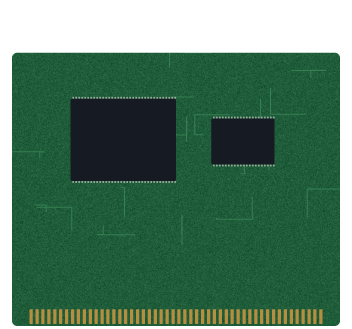
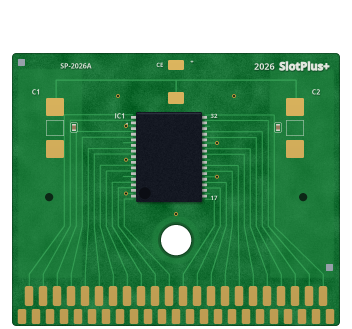
Game Gear: START opens the pak to a board drawn after the real ones
- assets/src/carts.py gg_board draws gg_board.png after real Game Gear
  boards: a tall chip with legs down both sides, a capacitor's pads each
  side joined by a frame trace, post holes, a big hole below the chip,
  bundles of traces fanning down to two staggered rows of gold contacts,
  and the 2026 SlotPlus+ mark. No makers' names or part numbers.
- board_face writes the game's name on the chip; shows_board_alone opens
  it the way the WonderSwan's and Pokémon mini's open.
- The play-time and gold stickers sit low on either side of the hole.

Claude-Session: https://claude.ai/code/session_01ECk6CDMKrY89HoAvKfhDo4

diff --git a/assets/src/carts.py b/assets/src/carts.py
@@ -666,12 +666,144 @@ def gamegear():
     interior(c, body, 33, [(w * 0.5, h * 0.2, 9), (w * 0.14, h * 0.6, 6),
                            (w * 0.86, h * 0.6, 6)]).save(os.path.join(ASSETS, "gg_interior.png"))
 
-    board_region = c.rrect(c.layer(), 12, h * 0.16, w - 12, h - 3, 5)
-    board = pcb(c, board_region, 34, [(w * 0.2, h * 0.3, w * 0.5, h * 0.55),
-                                       (w * 0.6, h * 0.36, w * 0.78, h * 0.5)])
-    board, balpha = fingers(c, w * 0.08, w * 0.92, h * 0.94, h - 5, 50, board,
-                            f(board_region))
+    gg_board(c)
+
+
+def gg_board(c=None):
+    """Only the board, after the real ones (see gg_pcb)."""
+    board, balpha = gg_pcb(c or Canvas(352, 329))
     rgba_colour(board, balpha).save(os.path.join(ASSETS, "gg_board.png"))
+
+
+# --------------------------------------------------------------------------
+# The Game Gear board, after the real ones: green, a thin trace framing the top
+# from one capacitor's pads to the other's, one tall chip with its legs down
+# both sides, a post hole each side and a big one below the chip, dense bundles
+# of traces running down round it, and two staggered rows of gold contacts.
+# No makers' names or part numbers; the slotPlus mark instead.
+
+GG_GREEN = np.array([22, 112, 52], np.float32)
+GG_TRACE = np.array([60, 170, 92], np.float32)
+GG_GOLD = [214, 176, 92]
+# Where the chip's marking goes; `slot_ui::board` writes the game's name there.
+GG_ROM = (136, 112, 202, 202)
+GG_BOARD = (12, 53, 340, 326)
+GG_HOLE = (176, 240, 15)
+
+
+def gg_pcb(c):
+    rng = np.random.default_rng(71)
+    x0, y0, x1, y1 = GG_BOARD
+    outline = c.rrect(c.layer(), x0, y0, x1, y1, 4)
+    hx, hy, hr = GG_HOLE
+    cut = c.ellipse(c.layer(), hx - hr, hy - hr, hx + hr, hy + hr)
+    region = np.clip(f(outline) - f(cut), 0, 1)
+
+    rgb = np.ones((c.H, c.W, 3), np.float32) * GG_GREEN
+    blotch = ndimage.gaussian_filter(rng.normal(0, 1, (c.H // 8 + 1, c.W // 8 + 1)), 2.4)
+    blotch = np.kron(blotch / max(blotch.std(), 1e-6), np.ones((8, 8)))[: c.H, : c.W]
+    rgb += (blotch * 5.0)[..., None].astype(np.float32)
+    rgb += grain((c.H, c.W), 72, 3.5)[..., None]
+
+    rx0, ry0, rx1, ry1 = GG_ROM
+    legs = 16
+    pitch = (ry1 - ry0) / legs
+    top_count, low_count = 22, 23
+    fx0, fx1 = x0 + 10, x1 - 10
+    top_pitch = (fx1 - fx0) / top_count
+    top_x = [fx0 + top_pitch * (k + 0.5) for k in range(top_count)]
+    top_y0, top_y1 = 286, 306
+    low_y0, low_y1 = 309, 324
+
+    # The ground plane, a shade lighter under the mask, round the edge and the hole.
+    plane = c.layer()
+    c.rrect(plane, x0 + 6, y0 + 16, x0 + 70, top_y0 - 8, 3)
+    c.rrect(plane, x1 - 70, y0 + 16, x1 - 6, top_y0 - 8, 3)
+    c.ellipse(plane, hx - hr - 9, hy - hr - 9, hx + hr + 9, hy + hr + 9)
+    rgb = paint(rgb, soft(f(plane), 0.6), [34, 132, 64], 0.55)
+
+    # Traces: legs out sideways to lanes down the side of the chip (the top leg
+    # the farthest out, so none cross), down past it, then fanning out evenly
+    # to the contacts. The legs between go to vias by the chip.
+    traces = c.layer()
+    d = ImageDraw.Draw(traces)
+    routed = [0, 1, 3, 4, 6, 7, 9, 10, 12, 13, 15]
+    stubs = []
+    for side, edge in ((-1, rx0), (1, rx1)):
+        for i in range(legs):
+            ly = ry0 + pitch * (i + 0.5)
+            if i not in routed:
+                vx = edge + side * (8 + (i % 2) * 5)
+                route(d, [(edge + side * 3, ly), (vx, ly)], 1.1)
+                stubs.append((vx + side * 2, ly))
+                continue
+            n = routed.index(i)
+            lane = edge + side * (12 + (len(routed) - 1 - n) * 6.0)
+            k = n if side < 0 else top_count - 1 - n
+            fx = top_x[k]
+            route(d, [(edge + side * 3, ly), (lane, ly), (lane, 226),
+                      (fx, 274), (fx, top_y0)], 1.2)
+    stubs = stubs[::2]
+    # The frame across the top, from C1's pads to C2's.
+    route(d, [(56, 104), (56, 80), (296, 80), (296, 104)], 1.4)
+    route(d, [(176, 80), (176, 98)], 1.4)
+    rgb = paint(rgb, soft(f(traces), 0.2), GG_TRACE, 0.85)
+
+    # Gold pads: a pair each side for C1 and C2, one over the chip, CE at the top.
+    pads = c.layer()
+    for px in (46, 286):
+        c.rrect(pads, px, 98, px + 18, 116, 1.2)
+        c.rrect(pads, px, 140, px + 18, 158, 1.2)
+    c.rrect(pads, 168, 92, 184, 104, 1.2)
+    c.rrect(pads, 168, 60, 184, 70, 1.2)
+    for k in range(top_count):
+        x = top_x[k]
+        c.rrect(pads, x - top_pitch * 0.3, top_y0, x + top_pitch * 0.3, top_y1, 2.0)
+    for k in range(low_count):
+        x = fx0 + top_pitch * (k + 0.0)
+        if x0 + 4 < x < x1 - 4:
+            c.rrect(pads, x - top_pitch * 0.3, low_y0, x + top_pitch * 0.3, low_y1, 1.5)
+    g = f(pads)
+    shine = np.linspace(1.06, 0.88, c.H)[:, None]
+    rgb = rgb * (1 - g[..., None]) + (np.array(GG_GOLD, np.float32) * shine[..., None]) * g[..., None]
+
+    # The small caps beside the pads, in silkscreen boxes.
+    rgb = passive(c, rgb, 72, 124, True)
+    rgb = passive(c, rgb, 276, 124, True)
+    rgb = silk_box(c, rgb, 46, 120, 64, 136)
+    rgb = silk_box(c, rgb, 286, 120, 304, 136)
+
+    # The chip, legs down both long sides.
+    rgb = chip_with_legs(c, rgb, rx0, ry0, rx1, ry1, "lr", pitch, leg=5.0, seed=73)
+    rgb = silk_text(c, rgb, rx0 - 16, ry0 + 4, "IC1", 7)
+    rgb = silk_text(c, rgb, rx0 - 9, ry0 + 13, "1", 6)
+    rgb = silk_text(c, rgb, rx1 + 12, ry0 + 4, "32", 6)
+    rgb = silk_text(c, rgb, rx1 + 12, ry1 - 4, "17", 6)
+    rgb = silk_text(c, rgb, 36, 92, "C1", 7)
+    rgb = silk_text(c, rgb, 316, 92, "C2", 7)
+    rgb = silk_text(c, rgb, 160, 65, "CE", 6)
+    rgb = silk_text(c, rgb, 192, 62, "+", 6)
+
+    # The marks along the top edge, and a fiducial in two corners.
+    rgb = silk_text(c, rgb, 76, 66, "SP-2026A", 7)
+    rgb = silk_mark(c, rgb, 330, 66, year_px=9, name_px=11)
+    fid = c.layer()
+    c.rrect(fid, x0 + 6, y0 + 6, x0 + 13, y0 + 13, 0.6)
+    c.rrect(fid, x1 - 14, top_y0 - 22, x1 - 7, top_y0 - 15, 0.6)
+    rgb = paint(rgb, f(fid), [150, 160, 170])
+
+    # The post holes each side, and a copper ring round the big one.
+    ring = np.clip(f(c.ellipse(c.layer(), hx - hr - 3, hy - hr - 3, hx + hr + 3, hy + hr + 3))
+                   - f(cut), 0, 1)
+    rgb = paint(rgb, ring, [24, 96, 46])
+    for px, py in ((49, 197), (303, 197)):
+        rgb = paint(rgb, f(c.ellipse(c.layer(), px - 7, py - 7, px + 7, py + 7)), [30, 124, 60])
+        rgb = paint(rgb, f(c.ellipse(c.layer(), px - 4, py - 4, px + 4, py + 4)), [12, 40, 22])
+    rgb = vias(c, rgb, stubs + [(118, 96), (234, 96), (176, 214)], r=1.9)
+
+    dist = ndimage.distance_transform_edt(region > 0.5) / S
+    rgb = rgb * (1 - 0.35 * np.clip(1.6 - dist, 0, 1))[..., None]
+    return rgb * region[..., None], region
 
 
 # --------------------------------------------------------------------------
@@ -1003,6 +1135,7 @@ MOULDS = {
     "lynx": lynx,
     "pm": pokemini,
     "gg": gamegear,
+    "gg_board": gg_board,
     "ngp": neogeo_pocket,
     "tg16": turbochip,
     "nds": ds_card,

diff --git a/crates/slot-ui/tests/board.rs b/crates/slot-ui/tests/board.rs
@@ -591,3 +591,53 @@ fn a_pokemon_mini_cart_shows_its_own_board_with_the_game_on_its_chip() {
         assert!(x >= 30 && x + sw <= 270, "on the board");
     }
 }
+
+#[test]
+fn a_game_gear_cart_shows_its_own_board_with_the_game_on_its_chip() {
+    let pm = Cart {
+        platform: Platform::Gg,
+        rom: "Games/GG/Sonic & Tails.gg".into(),
+        ..cart("Sonic & Tails", "")
+    };
+    let other = Cart {
+        stem: "Shinobi".into(),
+        ..pm.clone()
+    };
+    let face = board_face(&pm);
+    assert_eq!((face.w, face.h), (352, 329), "the board fills the cart");
+    let at = |f: &CartFace, x: u32, y: u32| {
+        let i = ((y * f.w + x) * 4) as usize;
+        [f.rgba[i], f.rgba[i + 1], f.rgba[i + 2], f.rgba[i + 3]]
+    };
+    let green = at(&face, 30, 250);
+    assert!(
+        green[1] > green[0] + 40 && green[3] == 255,
+        "green board: {green:?}"
+    );
+    assert_eq!(at(&face, 4, 20)[3], 0, "nothing outside the board");
+    let chip = (
+        slot_ui::GG_ROM_X,
+        slot_ui::GG_ROM_Y,
+        slot_ui::GG_ROM_W,
+        slot_ui::GG_ROM_H,
+    );
+    let differs = (chip.0..chip.0 + chip.2)
+        .flat_map(|x| (chip.1..chip.1 + chip.3).map(move |y| (x, y)))
+        .filter(|&(x, y)| at(&face, x, y) != at(&board_face(&other), x, y))
+        .count();
+    assert!(differs > 30, "each game's name is on its chip: {differs}");
+    let (sw, sh) = (
+        slot_ui::shelf_life::STICKER_W,
+        slot_ui::shelf_life::STICKER_H,
+    );
+    let play = slot_ui::shelf_life::sticker_at(&pm, &face).expect("a play-time spot");
+    let gold = slot_ui::shelf_life::gold_sticker_at(&pm, &face).expect("a gold spot");
+    assert!(play.0 + sw <= gold.0, "side by side");
+    for (x, y) in [play, gold] {
+        assert!(
+            y >= chip.1 + chip.3 && y + sh < 286,
+            "below the chip, above the contacts"
+        );
+        assert!(x >= 12 && x + sw <= 340, "on the board");
+    }
+}

diff --git a/crates/slot-ui/src/board.rs b/crates/slot-ui/src/board.rs
@@ -77,13 +77,18 @@ pub const PM_ROM_X: u32 = 95;
 pub const PM_ROM_Y: u32 = 24;
 pub const PM_ROM_W: u32 = 102;
 pub const PM_ROM_H: u32 = 46;
+/// slotPlus: the same on the Game Gear board's tall chip, as `GG_ROM` in carts.py.
+pub const GG_ROM_X: u32 = 136;
+pub const GG_ROM_Y: u32 = 112;
+pub const GG_ROM_W: u32 = 66;
+pub const GG_ROM_H: u32 = 90;
 
 /// slotPlus: carts whose back can be turned to, with nothing to pick there, only the
 /// board (and the play-time sticker) to see.
 pub fn shows_board_alone(platform: slot_store::Platform) -> bool {
     matches!(
         platform,
-        slot_store::Platform::Ws | slot_store::Platform::Pm
+        slot_store::Platform::Ws | slot_store::Platform::Pm | slot_store::Platform::Gg
     )
 }
 
@@ -122,15 +127,24 @@ pub fn board_face(cart: &Cart) -> CartFace {
         over(&mut face, &mark, WS_ROM_X, WS_ROM_Y);
         return face;
     }
-    if cart.platform == slot_store::Platform::Pm {
-        let (w, h) = bitmaps::Mould::Pm.size();
+    let chip = match cart.platform {
+        slot_store::Platform::Pm => {
+            Some((bitmaps::Mould::Pm, (PM_ROM_X, PM_ROM_Y, PM_ROM_W, PM_ROM_H)))
+        }
+        slot_store::Platform::Gg => {
+            Some((bitmaps::Mould::Gg, (GG_ROM_X, GG_ROM_Y, GG_ROM_W, GG_ROM_H)))
+        }
+        _ => None,
+    };
+    if let Some((mould, (x, y, w, h))) = chip {
+        let (fw, fh) = mould.size();
         let mut face = CartFace {
-            rgba: bitmaps::extra_board(bitmaps::Mould::Pm).to_vec(),
-            w,
-            h,
+            rgba: bitmaps::extra_board(mould).to_vec(),
+            w: fw,
+            h: fh,
         };
-        let mark = marking_sized(&rom_marking(&cart.stem), PM_ROM_W, PM_ROM_H);
-        over(&mut face, &mark, PM_ROM_X, PM_ROM_Y);
+        let mark = marking_sized(&rom_marking(&cart.stem), w, h);
+        over(&mut face, &mark, x, y);
         return face;
     }
     let mut face = CartFace {

diff --git a/crates/slot-ui/src/shelf_life.rs b/crates/slot-ui/src/shelf_life.rs
@@ -1311,7 +1311,7 @@ fn paste(back: &mut CartFace, paper: &[u8], sw: u32, sh: u32, (x0, y0): (u32, u3
 }
 
 /// Where a play-time sticker goes on the back of a cart: on the board of a GBA or Game Boy
-/// or WonderSwan or Pokémon mini cart, low on the back of a Lynx card, and beside the Notes
+/// or WonderSwan or Pokémon mini or Game Gear cart, low on the back of a Lynx card, and beside the Notes
 /// on the back of a HuCard. Other carts have no back to show yet.
 pub fn sticker_at(cart: &Cart, back: &CartFace) -> Option<(u32, u32)> {
     use slot_store::Platform;
@@ -1325,6 +1325,8 @@ pub fn sticker_at(cart: &Cart, back: &CartFace) -> Option<(u32, u32)> {
         Platform::Ws => (250, 104),
         // Low on the Pokémon mini board, either side of its mark.
         Platform::Pm => (38, 126),
+        // Low on the Game Gear board, either side of the hole below the chip.
+        Platform::Gg => (24, 212),
         Platform::Gb | Platform::Gbc if gb_shell_of(cart).is_some() => (28, 14),
         // To the right of the Notes on a HuCard's back, clear of the NAME line.
         Platform::Tg16 => (124, 141),
@@ -1355,6 +1357,7 @@ pub fn gold_sticker_at(cart: &Cart, back: &CartFace) -> Option<(u32, u32)> {
         Platform::Gba | Platform::Gbav => (224, 27),
         Platform::Ws => (66, 114),
         Platform::Pm => (186, 126),
+        Platform::Gg => (252, 212),
         Platform::Gb | Platform::Gbc if gb_shell_of(cart).is_some() => (28, 46),
         Platform::Tg16 => (124, 173),
         _ => return None,

diff --git a/crates/slot/tests/app.rs b/crates/slot/tests/app.rs
@@ -2774,6 +2774,28 @@ fn start_on_a_wonderswan_cart_shows_its_board_alone() {
     assert!(!d.path().join(slot_store::SELECTED_CORE_FILE).exists());
 }
 
+/// slotPlus: so does a Game Gear cart.
+#[test]
+fn start_on_a_game_gear_cart_shows_its_board_alone() {
+    let d = common::tmp_root_with_carts(&[]);
+    let gg = d.path().join("Games/GG");
+    std::fs::create_dir_all(&gg).unwrap();
+    for stem in ["Sonic & Tails", "Shinobi"] {
+        std::fs::write(gg.join(format!("{stem}.gg")), vec![0u8; 0x10000]).unwrap();
+    }
+    let (d, mut app) = booted_on_shelf(d);
+    fake_picker_faces(&mut app);
+    assert_eq!(app.selected_cart().map(|c| c.platform), Some(Platform::Gg));
+    app.apply(Action::GbaDown(Btn::Start));
+    assert_eq!(app.core_picker(), Some(Core::Gearsystem));
+    let_it_hop(&mut app);
+    app.apply(Action::GbaDown(Btn::B));
+    let_it_close(&mut app);
+    let_it_close(&mut app);
+    assert_eq!(app.core_picker(), None);
+    assert!(!d.path().join(slot_store::SELECTED_CORE_FILE).exists());
+}
+
 /// slotPlus: a Pokémon mini cart opens the same way, to its board.
 #[test]
 fn start_on_a_pokemon_mini_cart_shows_its_board_alone() {

diff --git a/crates/slot-ui/src/lib.rs b/crates/slot-ui/src/lib.rs
@@ -72,7 +72,7 @@ pub use board::{
     shelf_cart, shelf_cart_at, shelf_cart_shaped, slide_of, socket_face, socket_face_text,
     update_cart_face, Placed, Seats, BOARD_H, BOARD_W, BOARD_Y, CHIP_H, CHIP_TIP, CHIP_U, CHIP_V,
     CHIP_W, FINGERS, FINGER_H, FINGER_Y, GBA_SEATS, HOLD_NAMES, HOP_LIFT, LID_TURN, ROM_H, ROM_W, ROM_X, ROM_Y,
-    WS_ROM_H, WS_ROM_W, WS_ROM_X, WS_ROM_Y, PM_ROM_H, PM_ROM_W, PM_ROM_X, PM_ROM_Y,
+    WS_ROM_H, WS_ROM_W, WS_ROM_X, WS_ROM_Y, PM_ROM_H, PM_ROM_W, PM_ROM_X, PM_ROM_Y, GG_ROM_H, GG_ROM_W, GG_ROM_X, GG_ROM_Y,
     SHADOW_H, SHADOW_W, SLIDE_SHARE, SLIDE_UP, SOCKET_H, SOCKET_U, SOCKET_V, SOCKET_W, TURN_PAD,
 };
 pub use cart::{

diff --git a/CHANGELOG.md b/CHANGELOG.md
@@ -7,6 +7,7 @@ Work toward slotPlus 3.0, "the cart remembers", on the `cart-remembers` and `car
 - **Play time.** slotPlus counts how long you play each game (paused menus, loading and sleep don't count) and keeps it in `Saves/play_log.txt`. Press START on a GBA, Game Boy or WonderSwan cart and its board carries a small handwritten sticker with the time; a Lynx card shows it on its back.
 - **A WonderSwan board.** START on a WonderSwan cart now opens it to show its board, drawn after Bandai's own: the coin cell in its clip, the ROM with the game's name on it, the mapper, the save RAM and the band of vias over the contacts. A or B closes it. The same board shows through clear WonderSwan shells. slotPlus's own boards (WonderSwan, Lynx) are marked "2026 SlotPlus+".
 - **Inside the Pokémon mini cart.** START now opens a Pokémon mini cart to its board, as it opens a WonderSwan's, drawn after a real one: one wide chip with the game's name on it, the small parts round it, and two rows of gold contacts. Its play-time and achievements stickers go low on the board, so a Pokémon mini shows its play time at last. A clear shell shows the new board through it.
+- **Inside the Game Gear pak** (slotPlusUltra). START opens a Game Gear pak to its board, drawn after the real ones: one tall chip with the game's name on it, a capacitor each side, a big hole below the chip, bundles of traces and two rows of gold contacts. Its stickers go low on either side, so Game Gear games show their play time. A clear shell shows the new board through it.
 - **Icons on the stickers.** The play-time sticker has a tiny stopwatch printed in its top right corner, and the gold achievements sticker a tiny trophy, on every cart that shows them.
 - **Shelf Life**, a new page at the foot of Settings → Shelf, with three switches, all on to start:
   - **Shrink Wrap:** a game you've never played sits on the shelf in shrink wrap: clear film that hangs a little loose around the cart, wavy at the edges, cloudy and glossy, creased where it folds, with a crimped seal along the top. Each wrapped game carries a price sticker on the film: a marked-down yellow tag, a price-gun label, a scalloped label with a stock number or a shop label. Which one, its price and its corner come from the game, so a game always wears the same sticker. The price is in the money of where the game was sold: yen (¥4,800) on a Japan-only release, euros (29,99 €) on a release for Europe only, and dollars otherwise, including when a game was sold in more than one of them. The first time you put the cart in, the film rips down the middle with a crackle of cellophane and its two halves peel away, sticker and all, before the cart goes into the slot. A game with a save on the card, or on the Recents shelf, is never wrapped.

diff --git a/SYSTEMS.md b/SYSTEMS.md
@@ -161,7 +161,7 @@ The buttons follow the NeoGeo Pocket's own layout, so its A is the left button a
 | **Picture** | The 160x144 screen at 3x, or stretched to fill the screen. |
 | **Shaders** | Off, LCD3x, Grid, Simpletex, Shimmerless. |
 | **Bezel** | A bundled Default, a black face with the Game Gear's green power light glowing above the screen, or your own in `Bezels/GG/`. |
-| **Cart** | The Game Gear pak: a raised hood with grip ridges arching over the label, and the SEGA plaque at the foot. Black by default. |
+| **Cart** | The Game Gear pak: a raised hood with grip ridges arching over the label, and the SEGA plaque at the foot. Black by default. START opens it to its board, drawn after the real ones: one tall chip with the game's name on it, a capacitor each side, a big hole below the chip, bundles of traces down to two rows of gold contacts, and the play-time and gold achievements stickers low on either side. A clear shell shows the same board through it. |
 | **Saves** | Games with battery saves keep them in `Saves/GG/`. |
 
 ### Controls
